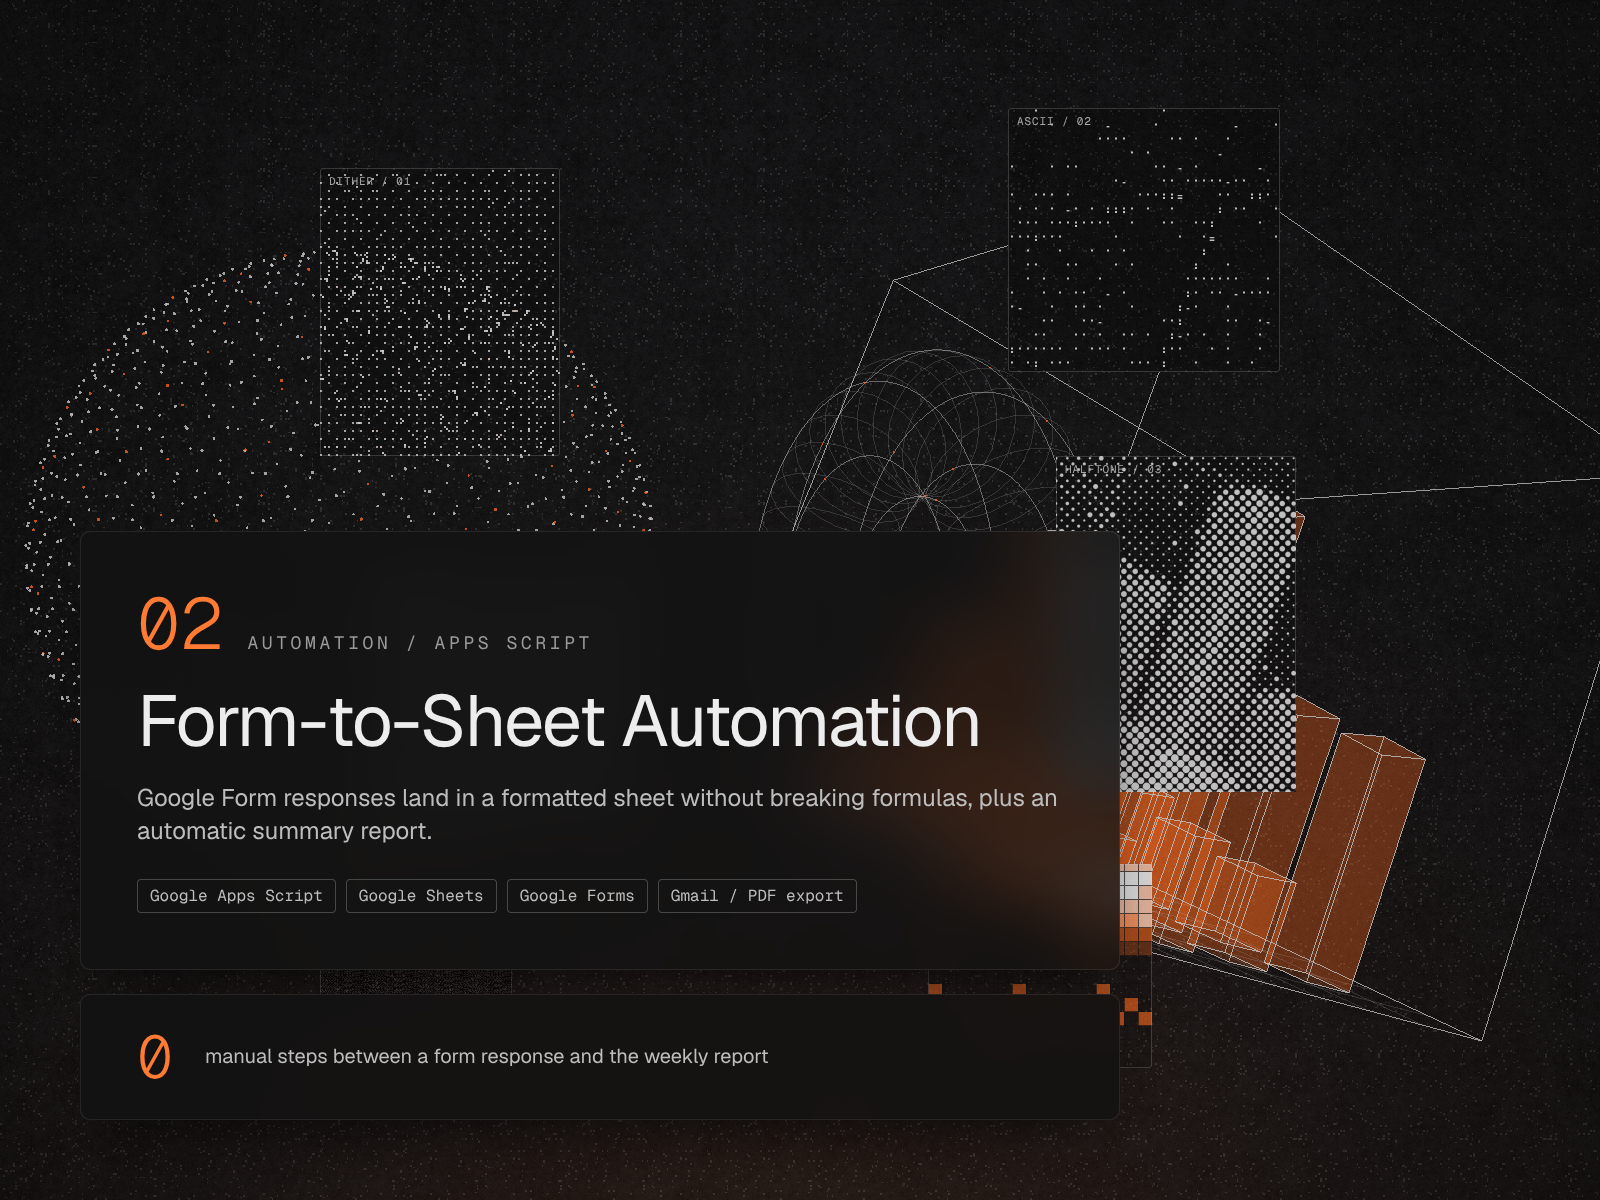
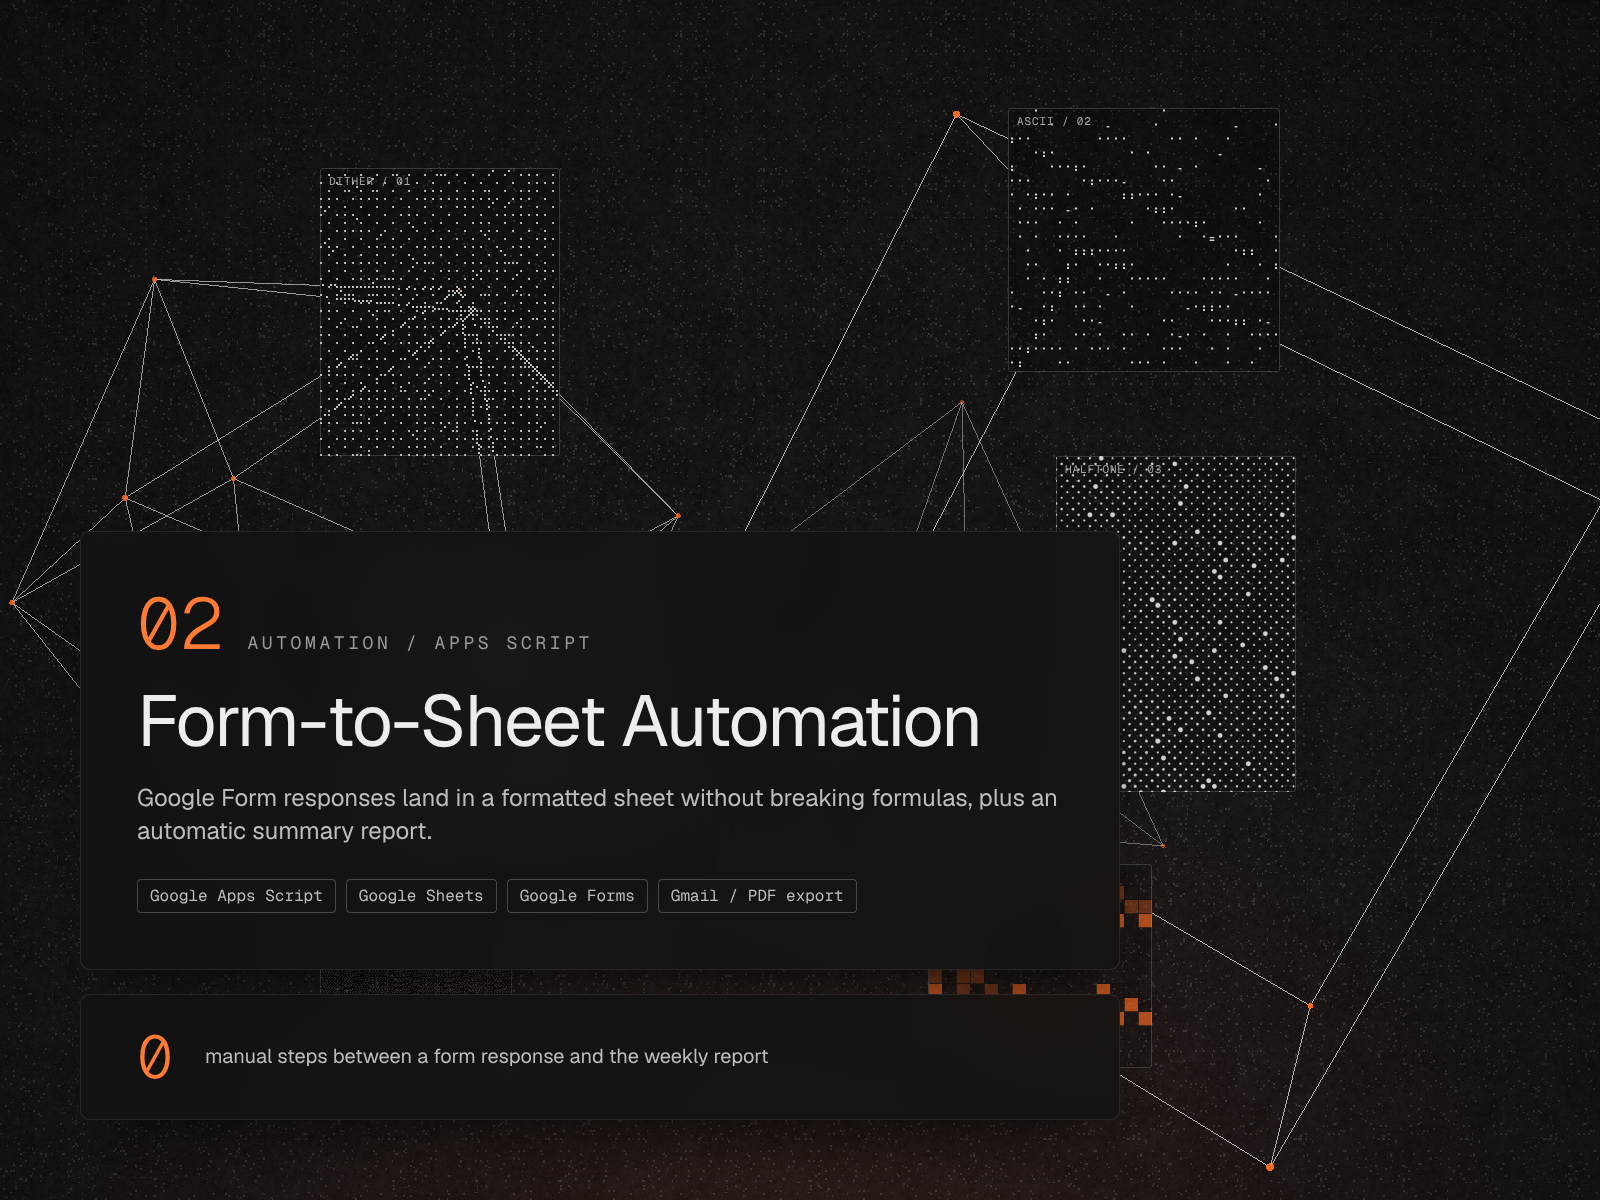
Simpler background shapes: wireframe cube, pyramid and icosahedron
Replace the cube-with-bars, torus and particle sphere with three plain
wireframe solids (thin edges, orange vertices) on the same slow carousel.
Assets regenerated.

diff --git a/src/lib/webgl/shapes.ts b/src/lib/webgl/shapes.ts
@@ -1,8 +1,6 @@
 /**
- * The three background shapes, built as plain vertex lists (no 3D library):
- *   cube-bars        dashboard: wireframe cube with animated 3D bars
- *   torus            automation: line-ring torus with jobs flowing around it
- *   particle-sphere  data cleaning: scattered points organising into a sphere
+ * The three background shapes: simple wireframe solids (cube, square
+ * pyramid, icosahedron), built as plain vertex lists (no 3D library).
  *
  * Each frame the shapes are transformed on the CPU into world space and
  * appended to three batches (lines, points, triangles). Vertex format:
@@ -83,127 +81,69 @@ export interface Batches {
   tris: Batch;
 }
 
-// ── Cube with bars ───────────────────────────────────────────
-const CUBE = 2.4;
-const H = CUBE / 2;
-const CUBE_EDGES: number[][] = [];
-{
-  const v = [-H, H];
-  for (const a of v) for (const b of v) {
-    CUBE_EDGES.push([-H, a, b, H, a, b], [a, -H, b, a, H, b], [a, b, -H, a, b, H]);
-  }
+type Vec = [number, number, number];
+
+interface Solid {
+  vertices: Vec[];
+  edges: [number, number][];
 }
 
-function box(t: Transform, out: Batches, x: number, z: number, w: number, h: number, colors: Colors, alpha: number) {
-  const x0 = x - w / 2, x1 = x + w / 2, z0 = z - w / 2, z1 = z + w / 2, y0 = -H, y1 = -H + h;
-  const corners = [
-    [x0, y0, z0], [x1, y0, z0], [x1, y0, z1], [x0, y0, z1],
-    [x0, y1, z0], [x1, y1, z0], [x1, y1, z1], [x0, y1, z1],
-  ];
-  const edges = [0, 1, 1, 2, 2, 3, 3, 0, 4, 5, 5, 6, 6, 7, 7, 4, 0, 4, 1, 5, 2, 6, 3, 7];
-  for (const i of edges) t.apply(corners[i][0], corners[i][1], corners[i][2], out.lines, colors.line, 0.85 * alpha);
-  const faces = [
-    [0, 1, 5, 4], [1, 2, 6, 5], [2, 3, 7, 6], [3, 0, 4, 7], [4, 5, 6, 7],
-  ];
-  for (const [a, b, c, d] of faces) {
-    for (const i of [a, b, c, a, c, d]) t.apply(corners[i][0], corners[i][1], corners[i][2], out.tris, colors.accent, 0.22 * alpha);
-  }
-}
+const CUBE: Solid = (() => {
+  const h = 1.1;
+  const vertices: Vec[] = [];
+  for (const x of [-h, h]) for (const y of [-h, h]) for (const z of [-h, h]) vertices.push([x, y, z]);
+  const edges: [number, number][] = [];
+  vertices.forEach((a, i) =>
+    vertices.forEach((b, j) => {
+      // Neighbours differ in exactly one coordinate.
+      if (j > i && a.filter((v, k) => v !== b[k]).length === 1) edges.push([i, j]);
+    }),
+  );
+  return { vertices, edges };
+})();
 
-export function cubeBars(t: Transform, time: number, out: Batches, colors: Colors, alpha: number) {
-  for (const e of CUBE_EDGES) {
-    t.apply(e[0], e[1], e[2], out.lines, colors.line, 0.8 * alpha);
-    t.apply(e[3], e[4], e[5], out.lines, colors.line, 0.8 * alpha);
-  }
-  // Floor grid.
-  for (let i = 1; i < 8; i++) {
-    const p = -H + (CUBE * i) / 8;
-    t.apply(p, -H, -H, out.lines, colors.line, 0.18 * alpha);
-    t.apply(p, -H, H, out.lines, colors.line, 0.18 * alpha);
-    t.apply(-H, -H, p, out.lines, colors.line, 0.18 * alpha);
-    t.apply(H, -H, p, out.lines, colors.line, 0.18 * alpha);
-  }
-  const n = 4;
-  const gap = CUBE / (n + 1);
-  for (let i = 0; i < n; i++) {
-    for (let j = 0; j < n; j++) {
-      const amp = 0.45 + ((i * 7 + j * 3) % 5) / 8;
-      const h = 0.25 + (CUBE - 0.5) * amp * (0.55 + 0.45 * Math.sin(time * 0.9 + i * 0.9 + j * 0.55));
-      box(t, out, -H + gap * (i + 1), -H + gap * (j + 1), gap * 0.5, h, colors, alpha);
-    }
-  }
-}
-
-// ── Torus ────────────────────────────────────────────────────
-const R = 1.35;
-const r = 0.5;
-const torusPoint = (u: number, v: number): [number, number, number] => {
-  const c = R + r * Math.cos(v);
-  return [c * Math.cos(u), c * Math.sin(u), r * Math.sin(v)];
+const PYRAMID: Solid = {
+  vertices: [
+    [-1.15, -0.85, -1.15],
+    [1.15, -0.85, -1.15],
+    [1.15, -0.85, 1.15],
+    [-1.15, -0.85, 1.15],
+    [0, 1.35, 0],
+  ],
+  edges: [
+    [0, 1], [1, 2], [2, 3], [3, 0],
+    [0, 4], [1, 4], [2, 4], [3, 4],
+  ],
 };
-const TORUS_RINGS: number[] = [];
-const TORUS_LOOPS: number[] = [];
-{
-  const rings = 40, segs = 24, loops = 6, loopSegs = 90;
-  for (let i = 0; i < rings; i++) {
-    const u = (i / rings) * Math.PI * 2;
-    for (let k = 0; k < segs; k++) {
-      TORUS_RINGS.push(...torusPoint(u, (k / segs) * Math.PI * 2), ...torusPoint(u, ((k + 1) / segs) * Math.PI * 2));
-    }
+
+const ICOSAHEDRON: Solid = (() => {
+  const t = (1 + Math.sqrt(5)) / 2;
+  const raw: Vec[] = [
+    [-1, t, 0], [1, t, 0], [-1, -t, 0], [1, -t, 0],
+    [0, -1, t], [0, 1, t], [0, -1, -t], [0, 1, -t],
+    [t, 0, -1], [t, 0, 1], [-t, 0, -1], [-t, 0, 1],
+  ];
+  const k = 1.35 / Math.hypot(1, t);
+  const vertices = raw.map((v) => v.map((c) => c * k) as Vec);
+  const edges: [number, number][] = [];
+  for (let i = 0; i < raw.length; i++)
+    for (let j = i + 1; j < raw.length; j++)
+      if (Math.abs(Math.hypot(raw[i][0] - raw[j][0], raw[i][1] - raw[j][1], raw[i][2] - raw[j][2]) - 2) < 1e-6) edges.push([i, j]);
+  return { vertices, edges };
+})();
+
+function solid(shape: Solid, t: Transform, out: Batches, colors: Colors, alpha: number) {
+  for (const [a, b] of shape.edges) {
+    const va = shape.vertices[a];
+    const vb = shape.vertices[b];
+    t.apply(va[0], va[1], va[2], out.lines, colors.line, 0.85 * alpha);
+    t.apply(vb[0], vb[1], vb[2], out.lines, colors.line, 0.85 * alpha);
   }
-  for (let l = 0; l < loops; l++) {
-    const v = (l / loops) * Math.PI * 2;
-    for (let k = 0; k < loopSegs; k++) {
-      TORUS_LOOPS.push(...torusPoint((k / loopSegs) * Math.PI * 2, v), ...torusPoint(((k + 1) / loopSegs) * Math.PI * 2, v));
-    }
-  }
+  for (const v of shape.vertices) t.apply(v[0], v[1], v[2], out.points, colors.accent, alpha);
 }
 
-export function torus(t: Transform, time: number, out: Batches, colors: Colors, alpha: number) {
-  for (let i = 0; i < TORUS_RINGS.length; i += 3) t.apply(TORUS_RINGS[i], TORUS_RINGS[i + 1], TORUS_RINGS[i + 2], out.lines, colors.line, 0.32 * alpha);
-  for (let i = 0; i < TORUS_LOOPS.length; i += 3) t.apply(TORUS_LOOPS[i], TORUS_LOOPS[i + 1], TORUS_LOOPS[i + 2], out.lines, colors.line, 0.85 * alpha);
-  for (let i = 0; i < 90; i++) {
-    const lane = i % 6;
-    const u = (i / 90) * Math.PI * 6 + time * (0.35 + lane * 0.03);
-    const [x, y, z] = torusPoint(u, (lane / 6) * Math.PI * 2);
-    t.apply(x, y, z, out.points, colors.accent, alpha);
-  }
-}
+export type ShapeBuilder = (t: Transform, time: number, out: Batches, colors: Colors, alpha: number) => void;
 
-// ── Particle sphere ──────────────────────────────────────────
-const SPHERE_COUNT = 1400;
-const SPHERE_RADIUS = 1.55;
-const CYCLE = 16; // seconds: scatter → organise → hold → scatter
-const sphereTarget = new Float32Array(SPHERE_COUNT * 3);
-const sphereStart = new Float32Array(SPHERE_COUNT * 3);
-const sphereDelay = new Float32Array(SPHERE_COUNT);
-{
-  const golden = Math.PI * (3 - Math.sqrt(5));
-  let seed = 7;
-  const rand = () => ((seed = (seed * 16807) % 2147483647) - 1) / 2147483646;
-  for (let i = 0; i < SPHERE_COUNT; i++) {
-    const y = 1 - (i / (SPHERE_COUNT - 1)) * 2;
-    const rad = Math.sqrt(1 - y * y);
-    const th = golden * i;
-    sphereTarget.set([Math.cos(th) * rad * SPHERE_RADIUS, y * SPHERE_RADIUS, Math.sin(th) * rad * SPHERE_RADIUS], i * 3);
-    sphereStart.set([(rand() - 0.5) * 5, (rand() - 0.5) * 4, (rand() - 0.5) * 3], i * 3);
-    sphereDelay[i] = (1 - (y + 1) / 2) * 0.35 + rand() * 0.2;
-  }
-}
-const ease = (k: number) => (k < 0.5 ? 4 * k * k * k : 1 - Math.pow(-2 * k + 2, 3) / 2);
-
-export function particleSphere(t: Transform, time: number, out: Batches, colors: Colors, alpha: number) {
-  const phase = (time % CYCLE) / CYCLE;
-  // 0–0.45 organise, hold, 0.85–1 scatter again.
-  const order = phase < 0.85 ? Math.min(1, phase / 0.45) : 1 - (phase - 0.85) / 0.15;
-  for (let i = 0; i < SPHERE_COUNT; i++) {
-    const k = ease(Math.min(1, Math.max(0, (order - sphereDelay[i]) / 0.45)));
-    const j = i * 3;
-    const wob = 0.06 * (1 - k);
-    const x = sphereStart[j] + (sphereTarget[j] - sphereStart[j]) * k + Math.sin(time * 0.7 + i) * wob;
-    const y = sphereStart[j + 1] + (sphereTarget[j + 1] - sphereStart[j + 1]) * k + Math.cos(time * 0.6 + i) * wob;
-    const z = sphereStart[j + 2] + (sphereTarget[j + 2] - sphereStart[j + 2]) * k;
-    const accent = i % 9 === 0;
-    t.apply(x, y, z, out.points, accent ? colors.accent : colors.line, (0.45 + 0.55 * k) * alpha);
-  }
-}
+export const cube: ShapeBuilder = (t, _time, out, colors, alpha) => solid(CUBE, t, out, colors, alpha);
+export const pyramid: ShapeBuilder = (t, _time, out, colors, alpha) => solid(PYRAMID, t, out, colors, alpha);
+export const icosahedron: ShapeBuilder = (t, _time, out, colors, alpha) => solid(ICOSAHEDRON, t, out, colors, alpha);

diff --git a/src/lib/webgl/engine.ts b/src/lib/webgl/engine.ts
@@ -10,12 +10,12 @@ import {
   SHAPE_VERTEX,
   createGlyphStrip,
 } from "./post";
-import { Batch, Transform, cubeBars, particleSphere, torus, type Batches, type Colors, type RGB } from "./shapes";
+import { Batch, Transform, cube, icosahedron, pyramid, type Batches, type Colors, type RGB } from "./shapes";
 
 /**
  * Background renderer, plain WebGL2 (no 3D library):
  *   1. Scene → offscreen texture: visitor images (from the Image lab), then
- *      three large wireframe shapes on a slow carousel around the centre.
+ *      three simple wireframe solids on a slow carousel around the centre.
  *   2. Post: one full-screen shader draws the granite background, composites
  *      the scene and applies each filter panel's effect inside its rectangle.
  *
@@ -271,16 +271,15 @@ export function createEngine({ canvas, stillTime, onFirstFrame }: EngineOptions)
     const visibleW = 2 * CAMERA_Z * Math.tan((fov * Math.PI) / 360) * aspect;
     const rx = visibleW * (aspect < 0.8 ? 0.3 : 0.27);
     const rz = 2.0;
-    const size = aspect < 0.8 ? 0.5 : 0.68;
-    const builders = [cubeBars, torus, particleSphere];
+    const size = aspect < 0.8 ? 0.6 : 0.85;
+    const builders = [cube, pyramid, icosahedron];
     builders.forEach((build, i) => {
       const angle = (t / ORBIT_SECONDS) * Math.PI * 2 + (i * Math.PI * 2) / 3;
       const x = Math.sin(angle) * rx;
       const z = Math.cos(angle) * rz;
       const y = Math.sin(t * 0.4 + i * 2) * 0.15;
       const alpha = 0.55 + 0.45 * ((z / rz + 1) / 2); // dimmer at the back
-      const spin: [number, number, number] =
-        i === 0 ? [0.42, t * 0.16 + 0.6, 0] : i === 1 ? [-1.05, Math.sin(t * 0.2) * 0.15, t * 0.18] : [0.25, t * 0.12, 0];
+      const spin: [number, number, number] = [0.35 + Math.sin(t * 0.2 + i) * 0.15, t * (0.14 + i * 0.03) + i, 0];
       transform.set(spin[0], spin[1], spin[2], size, x, y, z);
       build(transform, t, batches, colors, alpha);
     });
@@ -316,7 +315,7 @@ export function createEngine({ canvas, stillTime, onFirstFrame }: EngineOptions)
     gl!.blendFunc(gl!.ONE, gl!.ONE_MINUS_SRC_ALPHA);
     gl!.useProgram(shapeProgram.program);
     gl!.uniformMatrix4fv(shapeProgram.u("uViewProj"), false, viewProj);
-    gl!.uniform1f(shapeProgram.u("uPointScale"), 2.6 * scale * CAMERA_Z);
+    gl!.uniform1f(shapeProgram.u("uPointScale"), 5 * scale * CAMERA_Z);
     gl!.bindVertexArray(shapeVao);
     gl!.bindBuffer(gl!.ARRAY_BUFFER, shapeBuffer);
     drawBatch(batches.tris, gl!.TRIANGLES, false);

diff --git a/site.config.ts b/site.config.ts
@@ -5,7 +5,7 @@
 
 
 export type ProjectKind = "dashboard" | "automation" | "cleaning";
-export type ShapeId = "cube-bars" | "torus" | "particle-sphere";
+export type ShapeId = "cube" | "pyramid" | "icosahedron";
 export type FilterType =
   | "dither"
   | "ascii"
@@ -46,12 +46,12 @@ export const site = {
     github: "https://github.com/Icarotrs",
   },
 
-  // ── Background: three large shapes on a slow carousel ──────
+  // ── Background: three simple wireframe solids on a slow carousel ──
   // One shape per project kind, orbiting the center of the screen.
   shapes: {
-    dashboard: "cube-bars",
-    automation: "torus",
-    cleaning: "particle-sphere",
+    dashboard: "cube",
+    automation: "pyramid",
+    cleaning: "icosahedron",
   } satisfies Record<ProjectKind, ShapeId>,
 
   /** Human labels for project kinds. */

diff --git a/README.md b/README.md
@@ -4,7 +4,7 @@ Personal portfolio for a freelance data & automation specialist (Power BI, Googl
 
 - **Next.js 16** (App Router), fully static export (`out/`)
 - **Tailwind CSS v4**, Geist + Geist Mono, light/dark theme with no flash
-- **WebGL2** background (no 3D library): three large wireframe shapes on a slow carousel, rendered through movable "filter panels" (dither, ASCII, pixelate, noise, frost, halftone) by a single post-processing shader
+- **WebGL2** background (no 3D library): three simple wireframe solids on a slow carousel, rendered through movable "filter panels" (dither, ASCII, pixelate, noise, frost, halftone) by a single post-processing shader
 - Granite theme (blacks and dark greys with orange highlights; light stone variant), opaque frosted cards, mono corner details (menu, clock, theme switch, links)
 - **Image lab**: visitors drop their own images into the background and drag them (and the panels) under the effects — images never leave the browser
 - Case-study pages in an editorial layout: outcome first, fact strip, story with a sticky summary, large screenshots
@@ -51,7 +51,7 @@ The site intentionally has no email, phone or contact form — all contact goes 
 
 ## Change the background
 
-**Shapes.** A wireframe cube with animated bars (dashboards), a line-ring torus with flowing points (automation) and a particle cloud that keeps organising itself into a sphere (data cleaning) orbit the centre of the screen on a slow 3D carousel. They are plain vertex lists in `src/lib/webgl/shapes.ts`; orbit radius, size and speed are in `buildShapes()` in `src/lib/webgl/engine.ts`.
+**Shapes.** Three simple wireframe solids (a cube, a square pyramid and an icosahedron) with orange vertices orbit the centre of the screen on a slow 3D carousel. They are plain vertex lists in `src/lib/webgl/shapes.ts`; orbit radius, size and speed are in `buildShapes()` in `src/lib/webgl/engine.ts`.
 
 **Filter boxes.** `site.config.ts → filterBoxes` has one list per breakpoint (`desktop` ≥ 1024px, `tablet` 640–1023px, `mobile` < 640px). Each box is `{ filter, x, y, w, h }` in % of the viewport, with `filter` one of `dither`, `ascii`, `pixelate`, `noise`, `frost`, `halftone`. Up to 8 boxes per breakpoint. On the home page visitors can drag the panels (mouse anywhere on a panel, touch on its label tab, or Tab + arrow keys); their positions are saved in `localStorage` and the Image lab has a *Reset panels* button.
 
@@ -62,7 +62,7 @@ The boxes are real DOM elements (`src/components/background/FilterBoxLayer.tsx`)
 ## Performance and accessibility
 
 - The WebGL engine (plain WebGL2, ~20 KB) loads only after the page has loaded and the browser is idle (or on first interaction).
-- Shapes are three draw calls (triangles, lines, points); the drawing buffer is capped (1.5× pixel ratio, 2.4 MP); the loop runs at 30 fps, 60 while something is dragged.
+- Shapes are two draw calls (lines, points); the drawing buffer is capped (1.5× pixel ratio, 2.4 MP); the loop runs at 30 fps, 60 while something is dragged.
 - Pixel ratio capped at 1.5; rendering pauses when the tab is hidden.
 - `prefers-reduced-motion`: a static frame, redrawn only when something changes.
 - No WebGL2 → a pre-rendered background image. Software-only WebGL (no GPU) → the lightweight CSS background. Add `?forcegl` to the URL to force WebGL anyway (testing).
